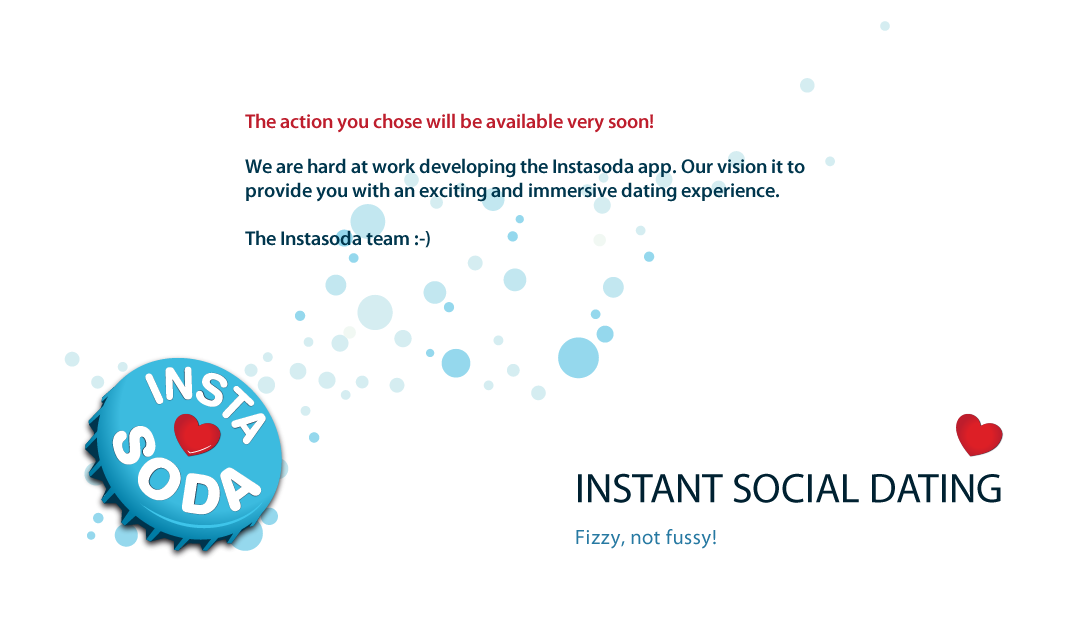
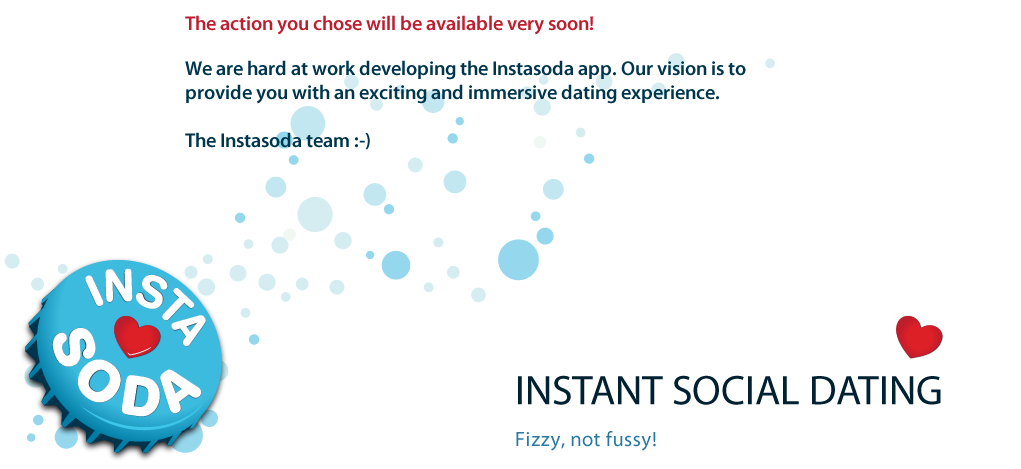
reduced the size of the beta image, to accommodate smaller monitors

diff --git a/apps/win8/Instasoda/html/homePage.html b/apps/win8/Instasoda/html/homePage.html
@@ -159,7 +159,7 @@
 
             <section id="inbox" role="main" aria-label="Main content" class="isGrid has3Columnsof3fr hasNoLeftMargin hasLeftPadding hasAutoRows"><div class="isColumn2 isRow1">inbox (soon)</div></section>
 
-            <section id="beta" role="main" aria-label="Main content" class="isGrid has3Columnsof3fr hasNoLeftMargin hasLeftPadding hasAutoRows"><div class="isColumn2 isRow1"><img src="../images/betaMessage.png" width="1081 height="625" /></div></section>
+            <section id="beta" role="main" aria-label="Main content" class="isGrid has3Columnsof3fr hasNoLeftMargin hasLeftPadding hasAutoRows"><div class="isColumn2 isRow1"><img src="../images/betaMessage.png" width="1021" height="469" /></div></section>
 
             <section id="photoView" role="main" aria-label="Main content" class="isGrid has3Columnsof3fr isColumn2 hasNoLeftMargin hasAutoRows"></section>
 
